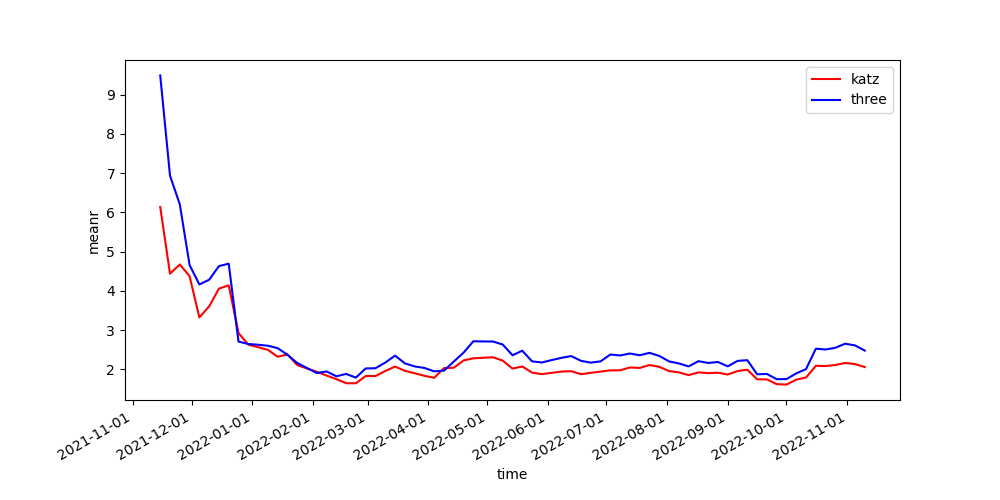
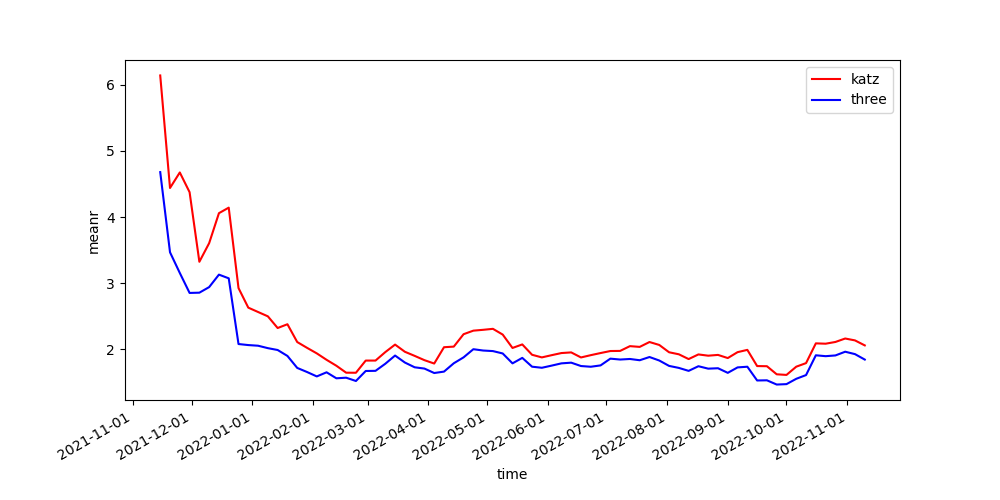
3.correct three degrees +b

diff --git a/centime_nw.py b/centime_nw.py
@@ -9,7 +9,7 @@ import matplotlib.pyplot as plt
 import matplotlib.dates as mdates
 import os
 
-token = 'people'
+token = 'panda'
 T = timedelta(days=10)# 间隔为T的时间
 beta = 0.0001
 
@@ -51,10 +51,11 @@ def centime_nw(token,T,beta):
         n = G.number_of_nodes()
         A = nx.to_scipy_sparse_array(G, dtype='f') # 按照G.nodes()顺序,csr按照行的稀疏矩阵
         I = np.diag(np.ones(n))
+        b = np.ones(n)
 
-        if t == start_time:
-            x = np.ones(n)
-            xs = np.ones(n)
+        if t == end_time - T:
+            x = b
+            xs = b
 
         # alpha--spectrum
         rho, vec = spla.eigs(A, k=1) # vec用不到
@@ -69,9 +70,10 @@ def centime_nw(token,T,beta):
         # three degrees
         cputime = time.process_time()
         # x * y不再执行矩阵乘法，而是逐元素乘法（就像 NumPy 数组一样）
-        xs = a*A@xs
-        xs = xs + a*A@xs
-        xs = xs + a*A@xs
+        x0 = xs
+        xs = x0 + a*A@xs
+        xs = x0 + a*A@xs
+        xs = x0 + a*A@xs
         xs = xs/max(abs(xs))
         cputime_s.append(time.process_time() - cputime)
 

diff --git a/centime_w.py b/centime_w.py
@@ -9,7 +9,7 @@ import matplotlib.pyplot as plt
 import matplotlib.dates as mdates
 import os
 
-token = 'people'
+token = 'panda'
 T = timedelta(days=30)# 间隔为T的时间
 
 def centime_w(token,T):
@@ -49,10 +49,11 @@ def centime_w(token,T):
         n = G.number_of_nodes()
         A = nx.to_scipy_sparse_array(G) # 按照G.nodes()顺序,csr按照行的稀疏矩阵
         I = np.diag(np.ones(n))
+        b = np.ones(n)
 
-        if t == start_time:
-            x = np.ones(n)
-            xs = np.ones(n)
+        if t == end_time - T:
+            x = b
+            xs = b
 
         # alpha--spectrum
         rho, vec = spla.eigs(A, k=1) # vec用不到
@@ -67,9 +68,10 @@ def centime_w(token,T):
         # three degrees
         cputime = time.process_time()
         # x * y不再执行矩阵乘法，而是逐元素乘法（就像 NumPy 数组一样）
-        xs = a*A@xs
-        xs = xs + a*A@xs
-        xs = xs + a*A@xs
+        x0 = xs
+        xs = x0 + a*A@xs
+        xs = x0 + a*A@xs
+        xs = x0 + a*A@xs
         xs = xs/max(abs(xs))
         cputime_s.append(time.process_time() - cputime)
 

diff --git a/centop_nw_br.py b/centop_nw_br.py
@@ -5,7 +5,7 @@ import scipy.sparse.linalg as spla
 import matplotlib.pyplot as plt
 import os
 
-token = 'MKR'# MKR_1e-6不让做了
+token = 'panda'# MKR_1e-6不让做了
 beta = 1e-6
 
 def centop_nw_br(token,beta):
@@ -38,17 +38,17 @@ def centop_nw_br(token,beta):
     # GMRES
     x, exitCode = spla.gmres(I-a*A, b) # 默认restart=20,x即为完整的kazt中心性向量,exitCode=0表示success
     x = x/max(abs(x)) # 归一化
-    xT, exitCode = spla.gmres(I-a*AT, x) 
+    xT, exitCode = spla.gmres(I-a*AT, b) 
     xT = xT/max(abs(xT)) # 归一化
 
     # three degrees
-    xs = a*A@b
-    xs = xs + a*A@xs
-    xs = xs + a*A@xs
+    xs = b + a*A@b
+    xs = b + a*A@xs
+    xs = b + a*A@xs
     xs = xs/max(abs(xs))
-    xsT = a*AT@b
-    xsT = xsT + a*A@xsT
-    xsT = xsT + a*A@xsT
+    xsT = b + a*A@b
+    xsT = b + a*A@xsT
+    xsT = b + a*A@xsT
     xsT = xsT/max(abs(xsT))
 
 

diff --git a/centop_w.py b/centop_w.py
@@ -11,8 +11,8 @@ import heapq # 数组最大n个值
 import os
 
 # settings
-token = 'bank'
-T = timedelta(days=60)# 间隔为T的时间保持影响力，单位为天
+token = 'panda'
+T = timedelta(days=30)# 间隔为T的时间保持影响力，单位为天
 s = timedelta(days=5)# 起始时间间隔，单位为天
 # percent = [0.010,0.020,0.030,0.040,0.050,0.060,0.070,0.080,0.090]
 percent = [0.001,0.002,0.003,0.004,0.005,0.006,0.007,0.008,0.009]
@@ -79,9 +79,9 @@ def meanr(token,T,s,percent):
         # three degrees
         cputime = time.process_time()
         # x * y不再执行矩阵乘法，而是逐元素乘法（就像 NumPy 数组一样）
-        xs = a*A@b
-        xs = a*A@b + a*A@xs
-        xs = a*A@b + a*A@xs
+        xs = b + a*A@b
+        xs = b + a*A@xs
+        xs = b + a*A@xs
         cputime_s.append(time.process_time() - cputime)
 
         # top n/total

diff --git a/centop_w_br.py b/centop_w_br.py
@@ -5,7 +5,7 @@ import scipy.sparse.linalg as spla
 import matplotlib.pyplot as plt
 import os
 
-token = 'people'
+token = 'panda'
 
 def centop_w_br(token):
 
@@ -37,17 +37,17 @@ def centop_w_br(token):
     # GMRES
     x, exitCode = spla.gmres(I-a*A, b) # 默认restart=20,x即为完整的kazt中心性向量,exitCode=0表示success
     x = x/max(abs(x)) # 归一化
-    xT, exitCode = spla.gmres(I-a*AT, x) 
+    xT, exitCode = spla.gmres(I-a*AT, b) 
     xT = xT/max(abs(xT)) # 归一化
 
     # three degrees
-    xs = a*A@b
-    xs = xs + a*A@xs
-    xs = xs + a*A@xs
+    xs = b + a*A@b
+    xs = b + a*A@xs
+    xs = b + a*A@xs
     xs = xs/max(abs(xs))
-    xsT = a*AT@b
-    xsT = xsT + a*A@xsT
-    xsT = xsT + a*A@xsT
+    xsT = b + a*A@b
+    xsT = b + a*A@xsT
+    xsT = b + a*A@xsT
     xsT = xsT/max(abs(xsT))
 
 

diff --git a/centrality_w.py b/centrality_w.py
@@ -10,7 +10,7 @@ import matplotlib.dates as mdates
 import os
 
 token = 'panda'
-T = timedelta(days=60)# 间隔为T的时间保持影响力，单位为天
+T = timedelta(days=30)# 间隔为T的时间保持影响力，单位为天
 s = timedelta(days=5)# 起始时间间隔，单位为天
 
 def centrality_w(token,T,s):
@@ -62,9 +62,10 @@ def centrality_w(token,T,s):
         # three degrees
         cputime = time.process_time()
         # x * y不再执行矩阵乘法，而是逐元素乘法（就像 NumPy 数组一样）
-        xs = a*A@b
-        xs = a*A@b + a*A@xs
-        xs = a*A@b + a*A@xs
+        xs = b + a*A@b
+        xs = b + a*A@xs
+        xs = b + a*A@xs
+        xs = xs/max(abs(xs))
         cputime_s.append(time.process_time() - cputime)
 
         # proportion

diff --git a/centop_nw.py b/centop_nw.py
@@ -13,7 +13,7 @@ import os
 # 考虑无权图 因此我们选取value>max*beta的数据
 
 # settings
-token = 'people'
+token = 'panda'
 T = timedelta(days=30)# 间隔为T的时间保持影响力，单位为天
 s = timedelta(days=5)# 起始时间间隔，单位为天
 beta = 0.001
@@ -83,9 +83,9 @@ def meanr(token,T,s,percent,beta):
         # three degrees
         cputime = time.process_time()
         # x * y不再执行矩阵乘法，而是逐元素乘法（就像 NumPy 数组一样）
-        xs = a*A@b
-        xs = a*A@b + a*A@xs
-        xs = a*A@b + a*A@xs
+        xs = b + a*A@b
+        xs = b + a*A@xs
+        xs = b + a*A@xs
         cputime_s.append(time.process_time() - cputime)
 
         # top n/total
